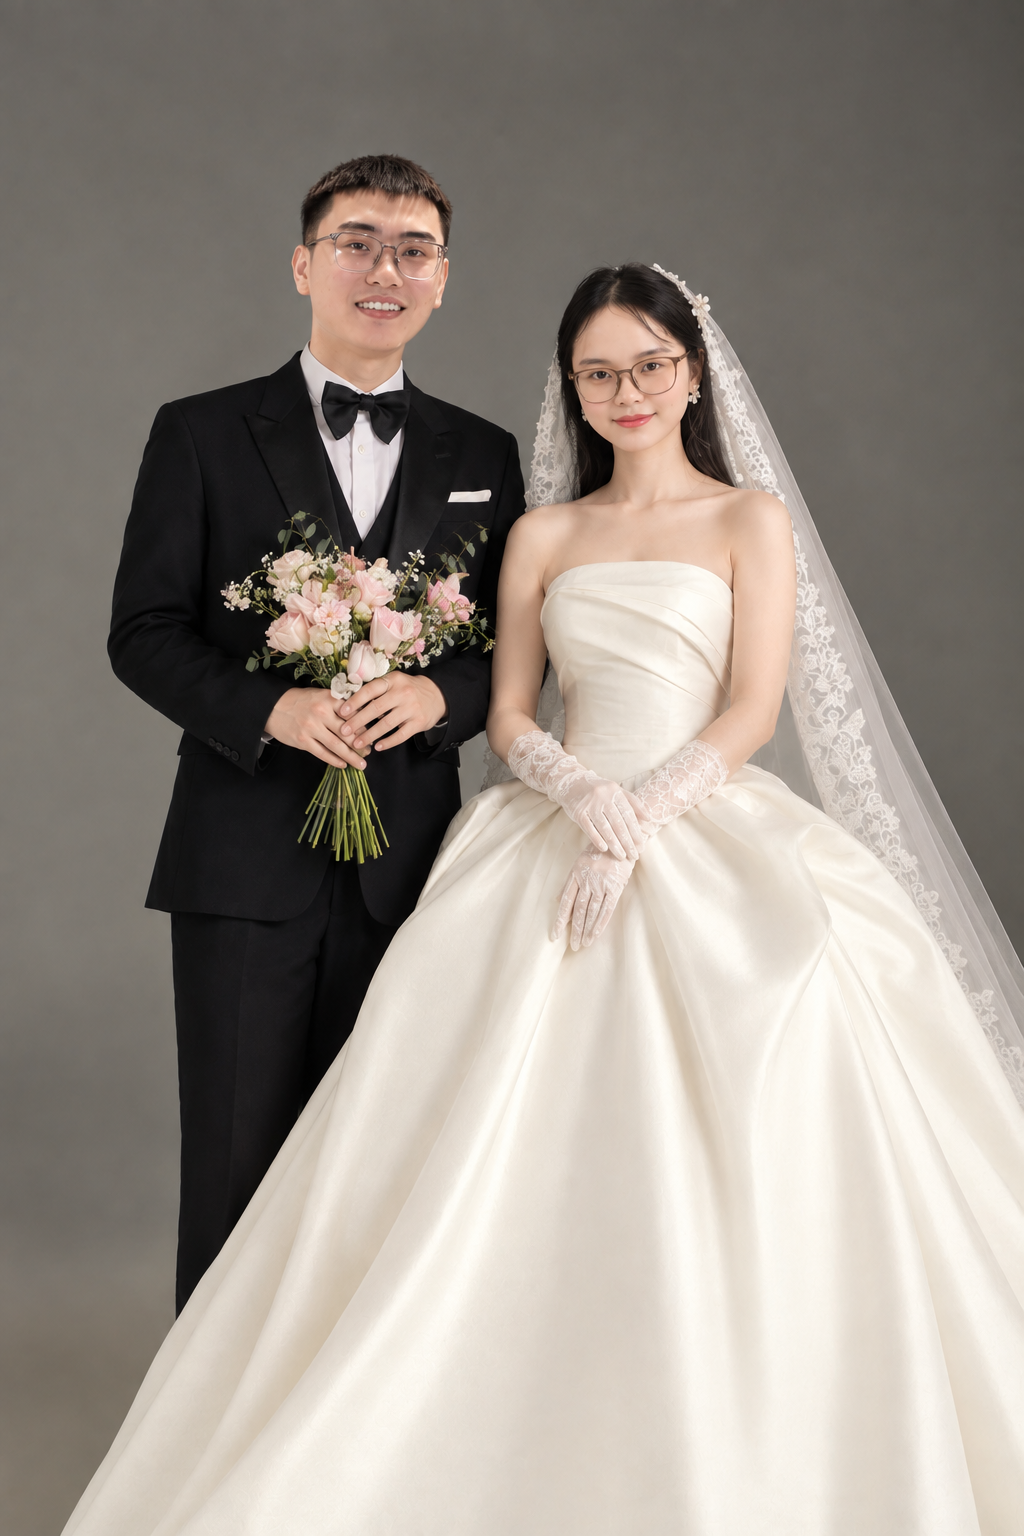
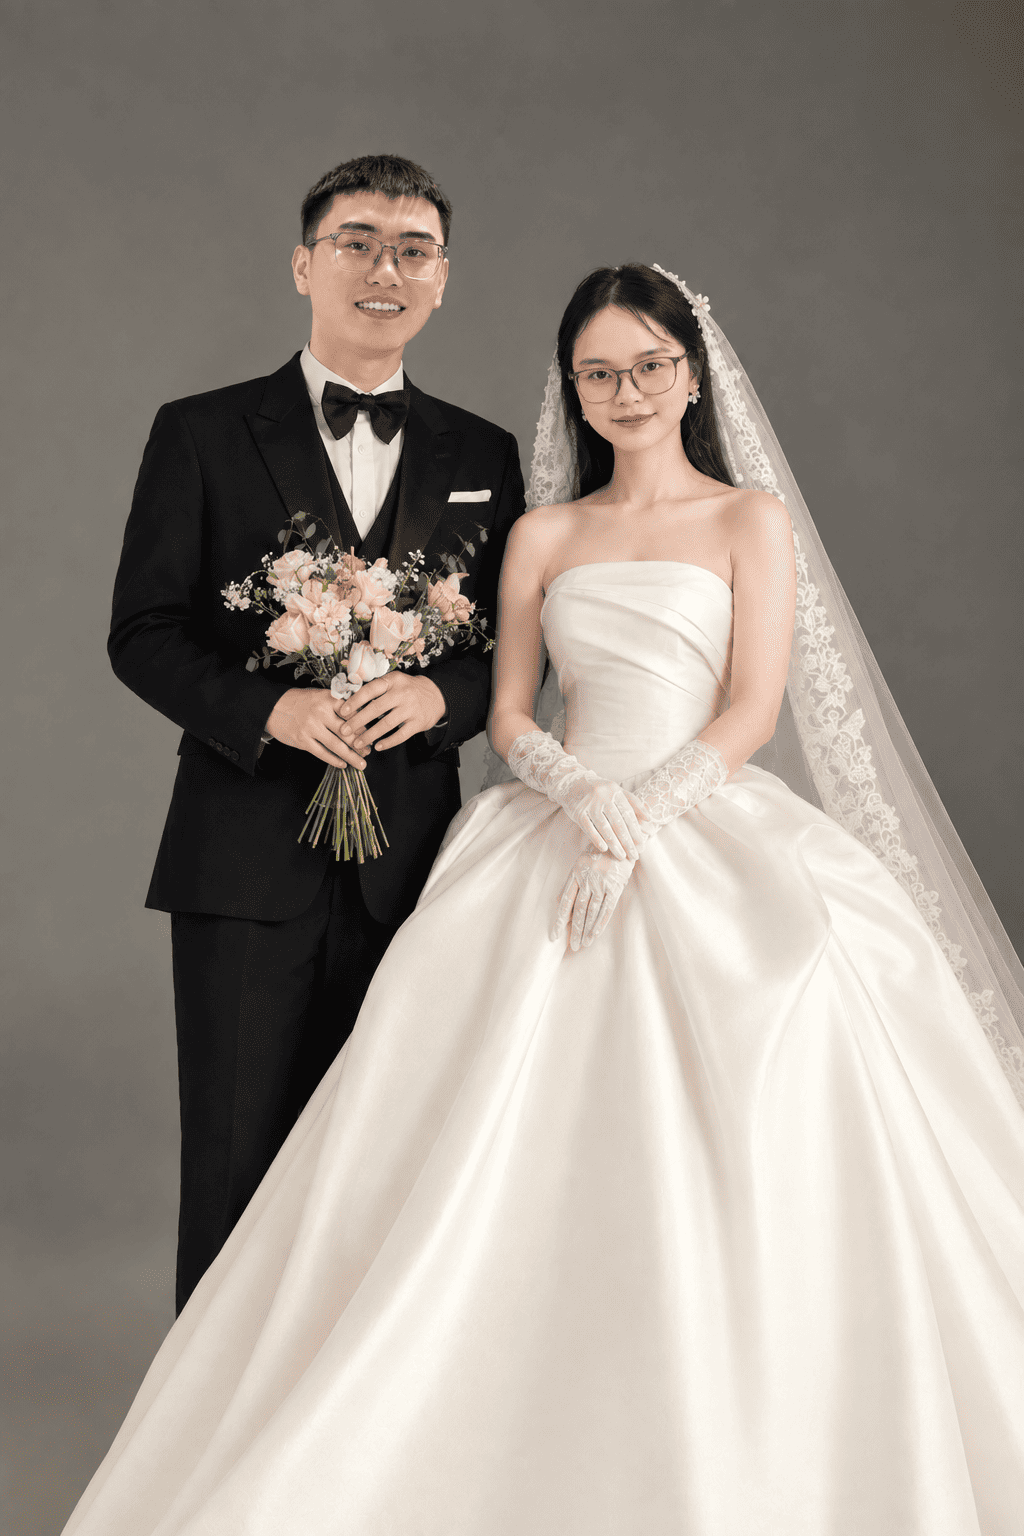
Replace image 2.webp with anh2.png

diff --git a/index.html b/index.html
@@ -201,7 +201,7 @@
          ========================================== -->
       <section class="love-section" id="love">
         <h2 class="love-title" data-aos="fade-down">L . O . V . E</h2>
-        <img src="./assets/img/2.webp" alt="Couple Tuxedo" class="love-main-img" data-aos="zoom-in">
+        <img src="./assets/img/anh2.png" alt="Couple Tuxedo" class="love-main-img" data-aos="zoom-in">
 
         <div data-aos="fade-up">
           <div class="we-got-married-text">We got married</div>
@@ -262,7 +262,7 @@
       <section class="address-section" id="address">
         <div class="address-grid" data-aos="fade-up">
           <div>
-            <img src="./assets/img/2.webp" alt="Address Image" class="address-photo-img">
+            <img src="./assets/img/anh2.png" alt="Address Image" class="address-photo-img">
           </div>
           
           <div class="address-info-col">
@@ -289,7 +289,7 @@
           </div>
 
           <div class="gallery-stacked-card gallery-card-bottom">
-            <img src="./assets/img/2.webp" alt="Gallery Photo 2">
+            <img src="./assets/img/anh2.png" alt="Gallery Photo 2">
           </div>
         </div>
       </section>
